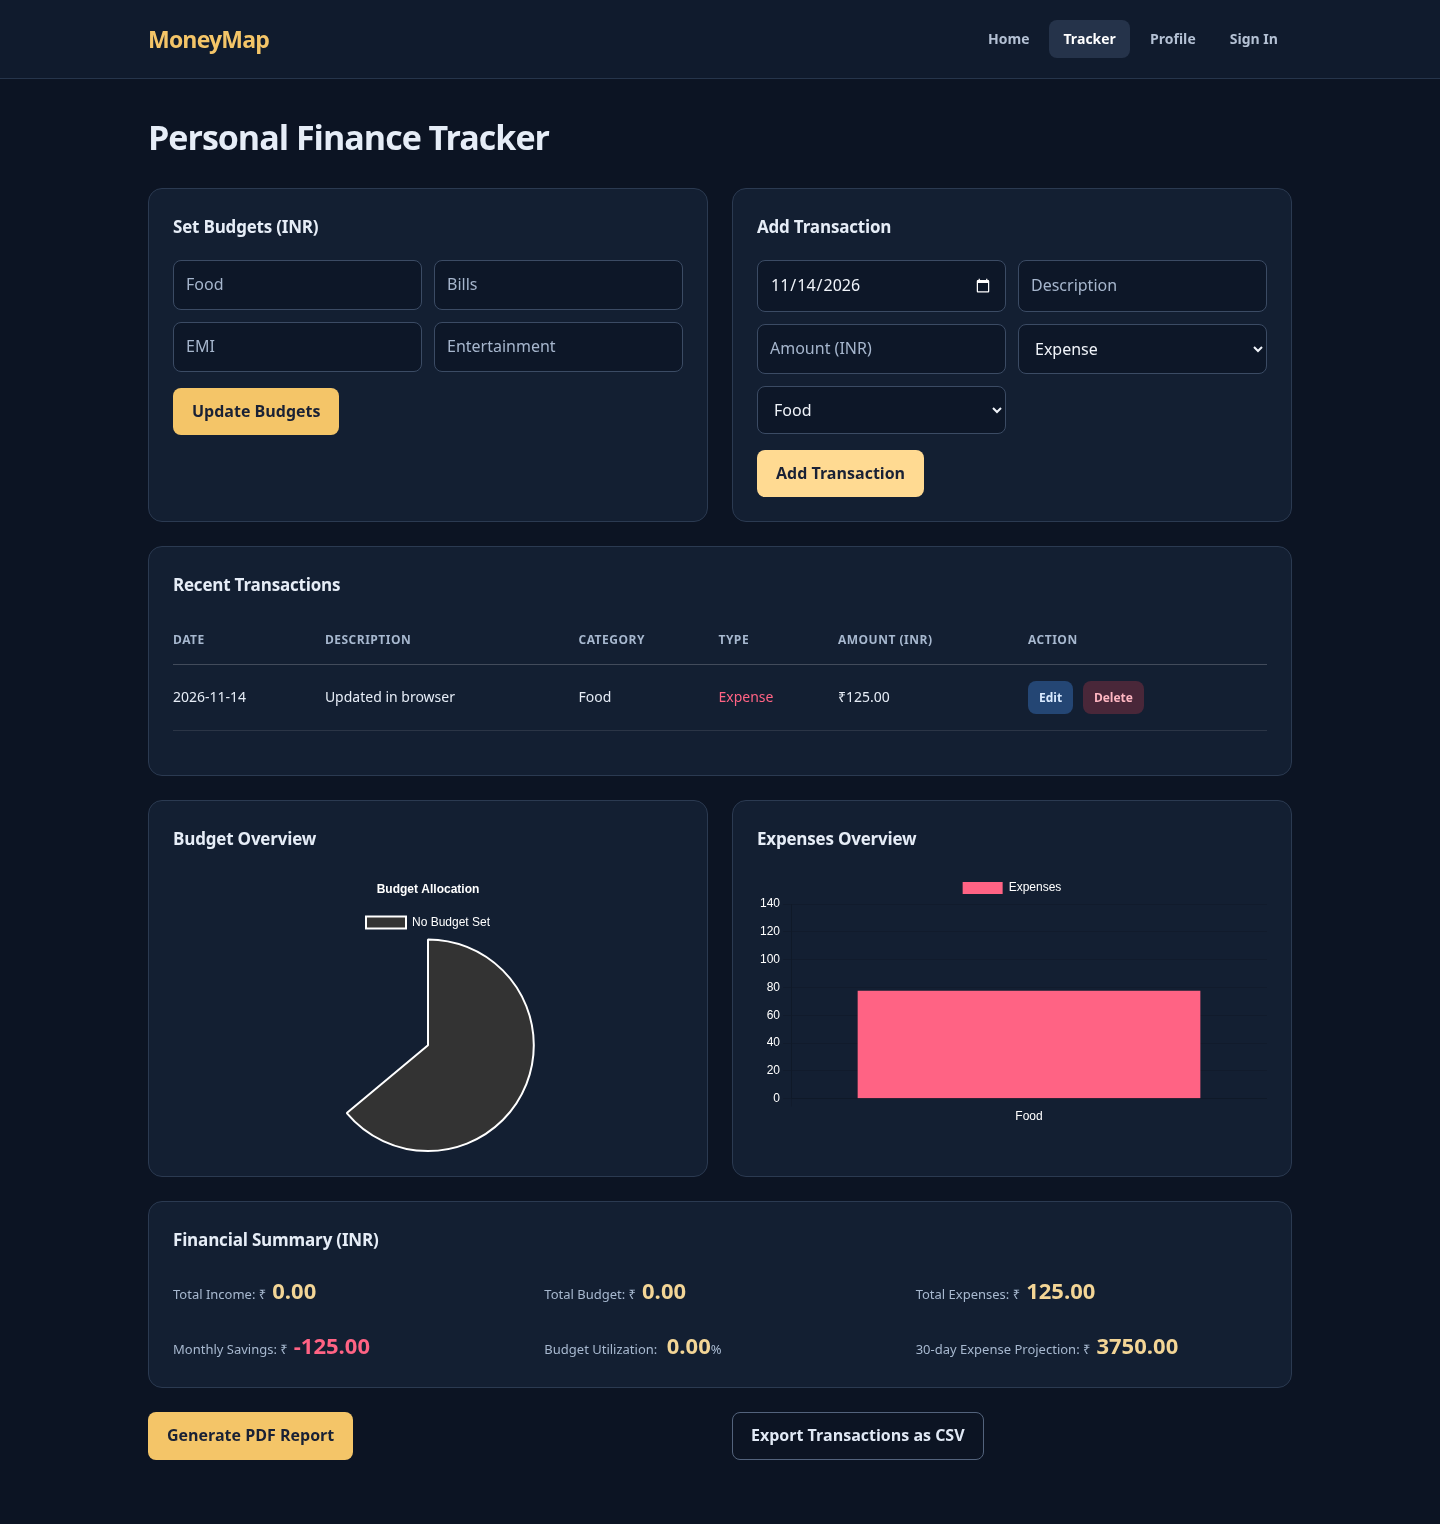
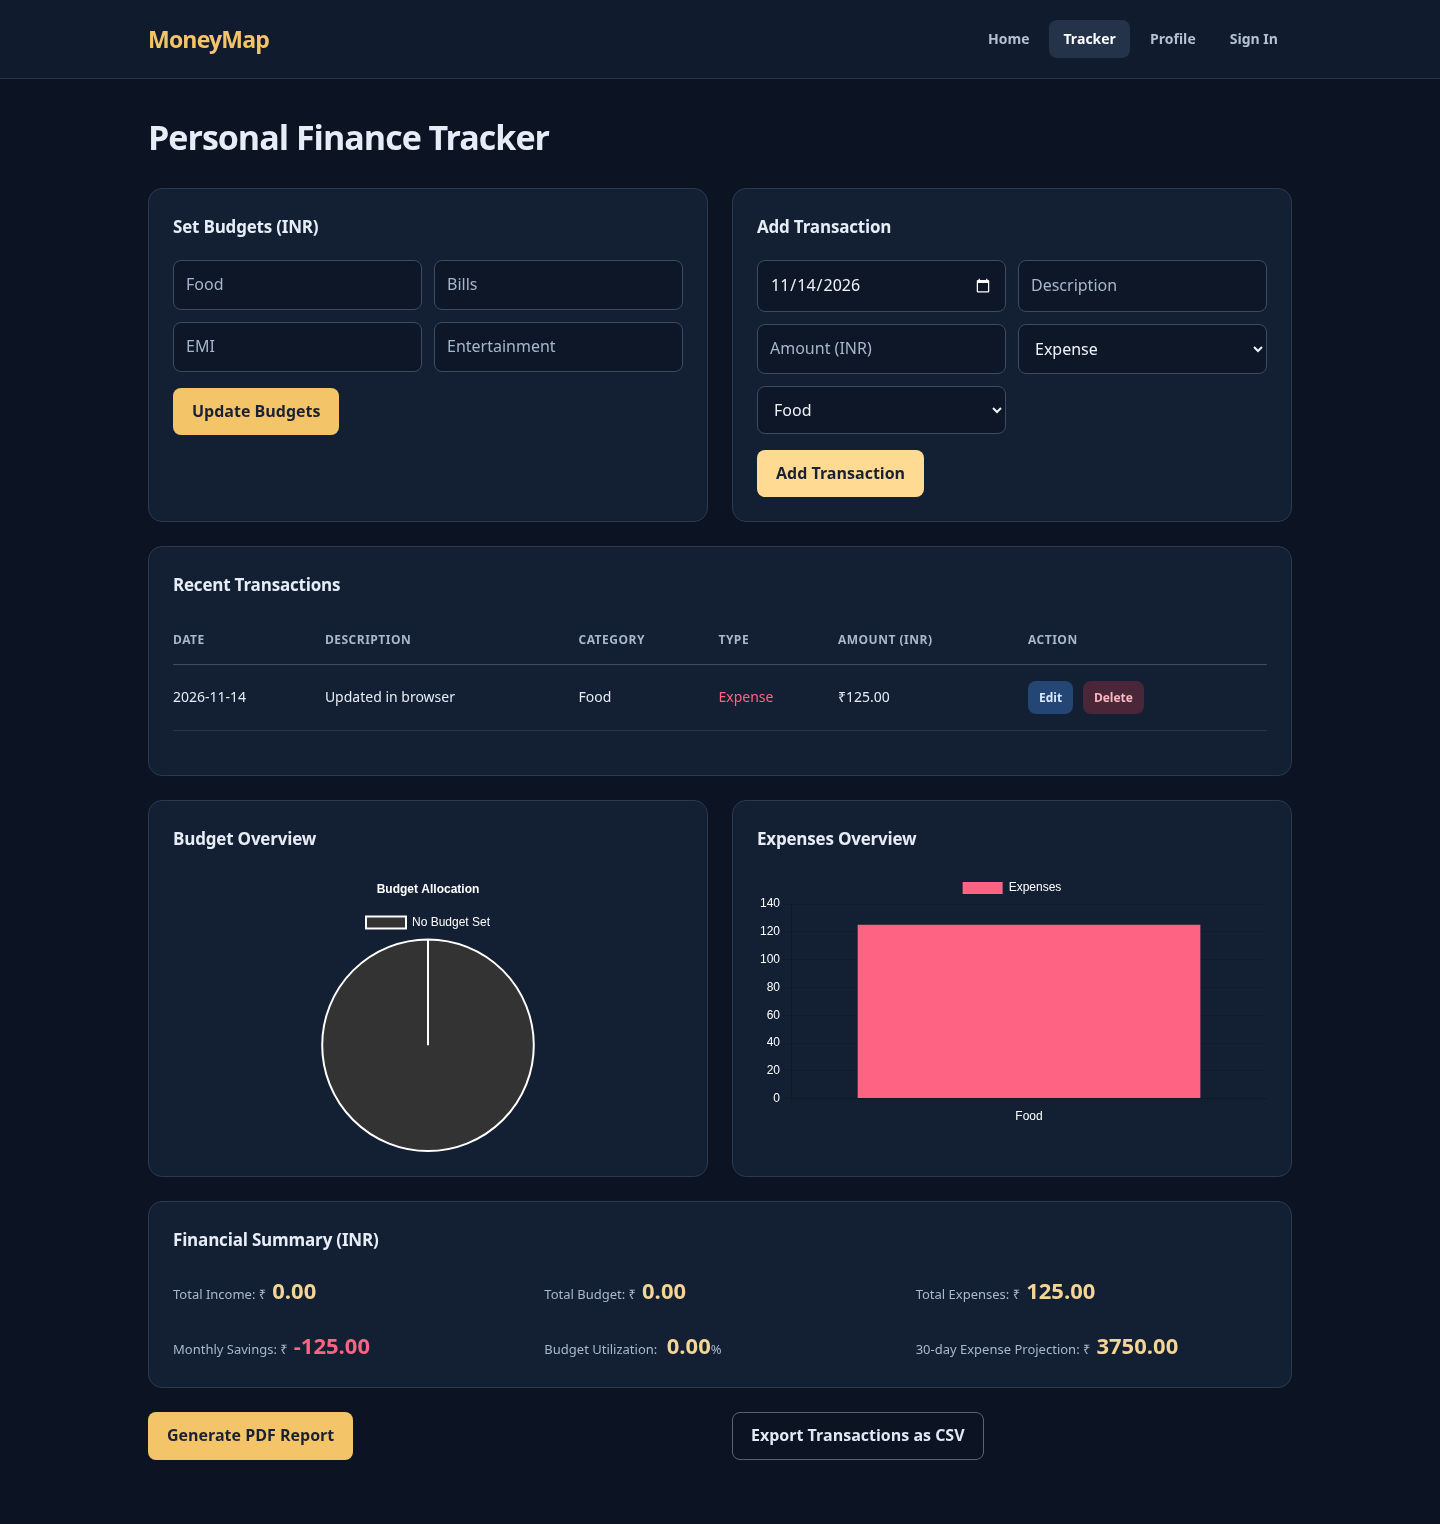
fix: render stable charts and refresh verified screenshots

Changed region(s): [[0.5938, 0.586, 0.8438, 0.6476], [0.2188, 0.6168, 0.3125, 0.7402]]

diff --git a/js/financetracker.js b/js/financetracker.js
@@ -210,7 +210,7 @@ function renderCharts(budgets, categoryExpenses) {
         backgroundColor: budgetData.length > 0 ? ["#FF6384", "#36A2EB", "#FFCE56", "#4BC0C0"] : ["#333"],
       }],
     },
-    options: { responsive: true, plugins: { title: { display: true, text: "Budget Allocation", color: '#fff' }, legend: { labels: { color: '#fff' } } } },
+    options: { animation: false, responsive: true, plugins: { title: { display: true, text: "Budget Allocation", color: '#fff' }, legend: { labels: { color: '#fff' } } } },
   });
 
   // Expense Chart
@@ -230,7 +230,8 @@ function renderCharts(budgets, categoryExpenses) {
         backgroundColor: ["#FF6384", "#36A2EB", "#FFCE56", "#4BC0C0", "#9966FF", "#FF9F40"],
       }],
     },
-    options: { 
+    options: {
+      animation: false,
       responsive: true,
       plugins: { legend: { labels: { color: '#fff' } } },
       scales: {
